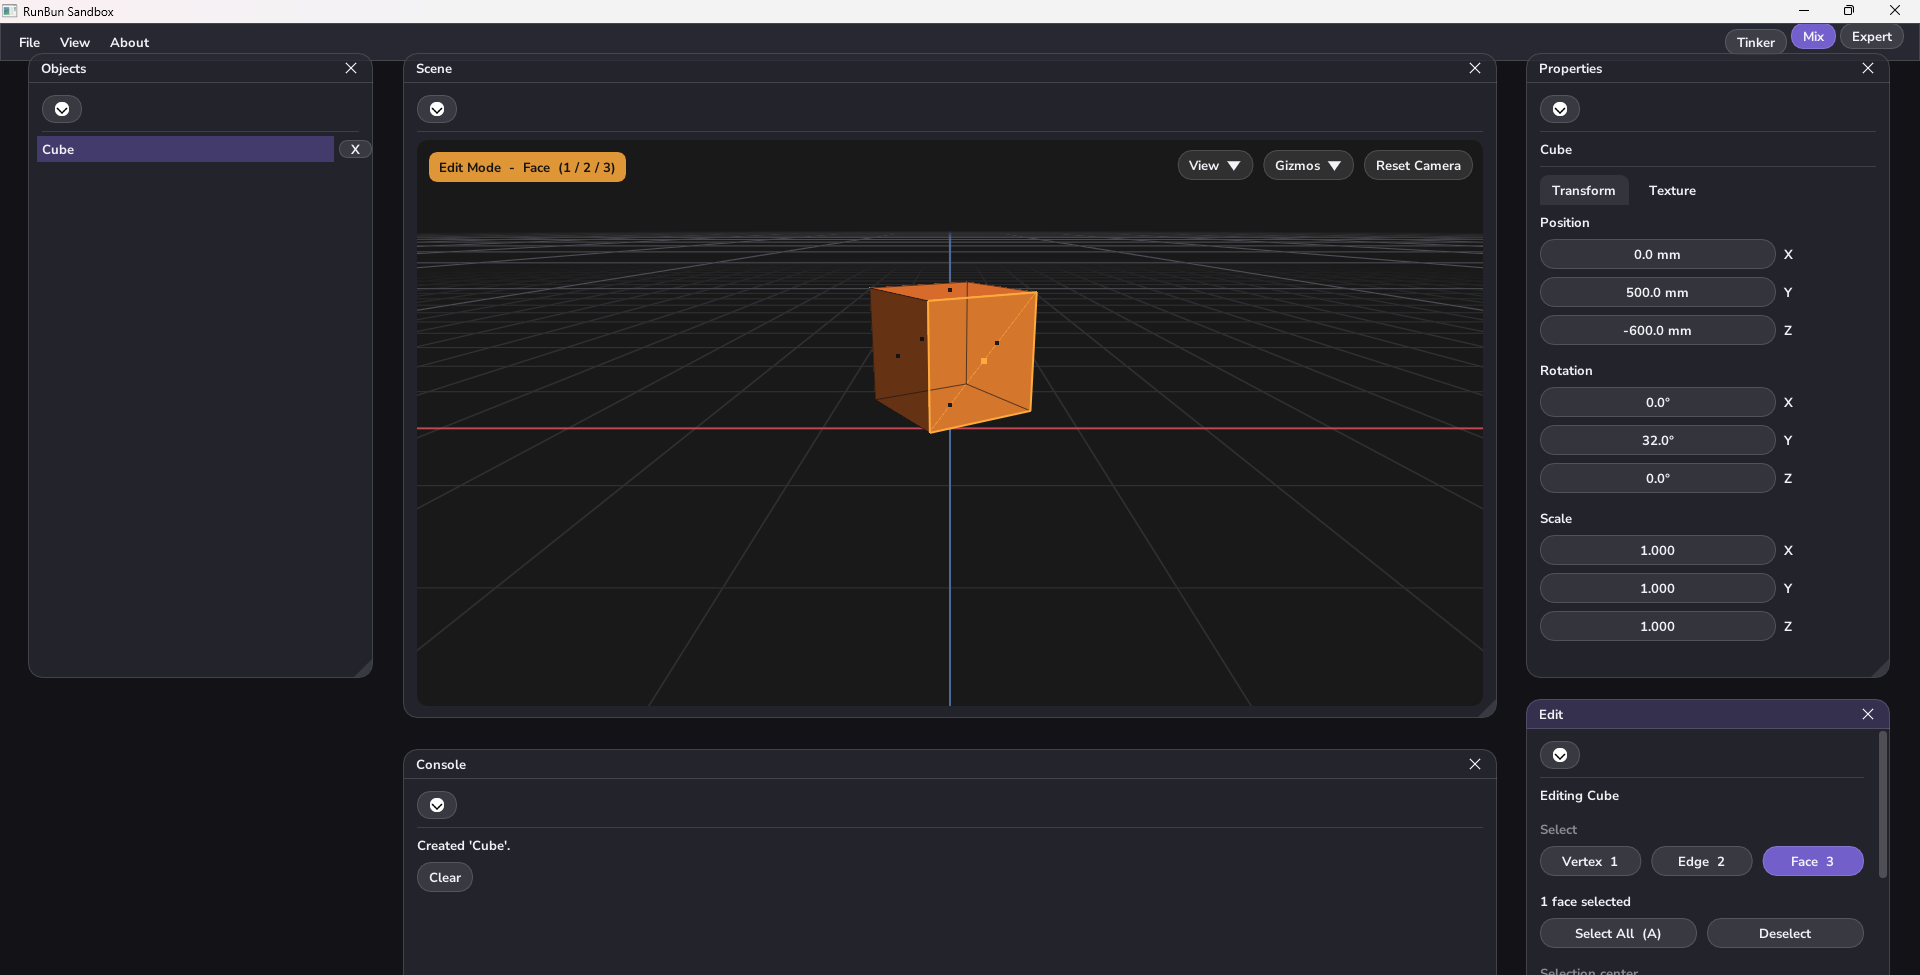
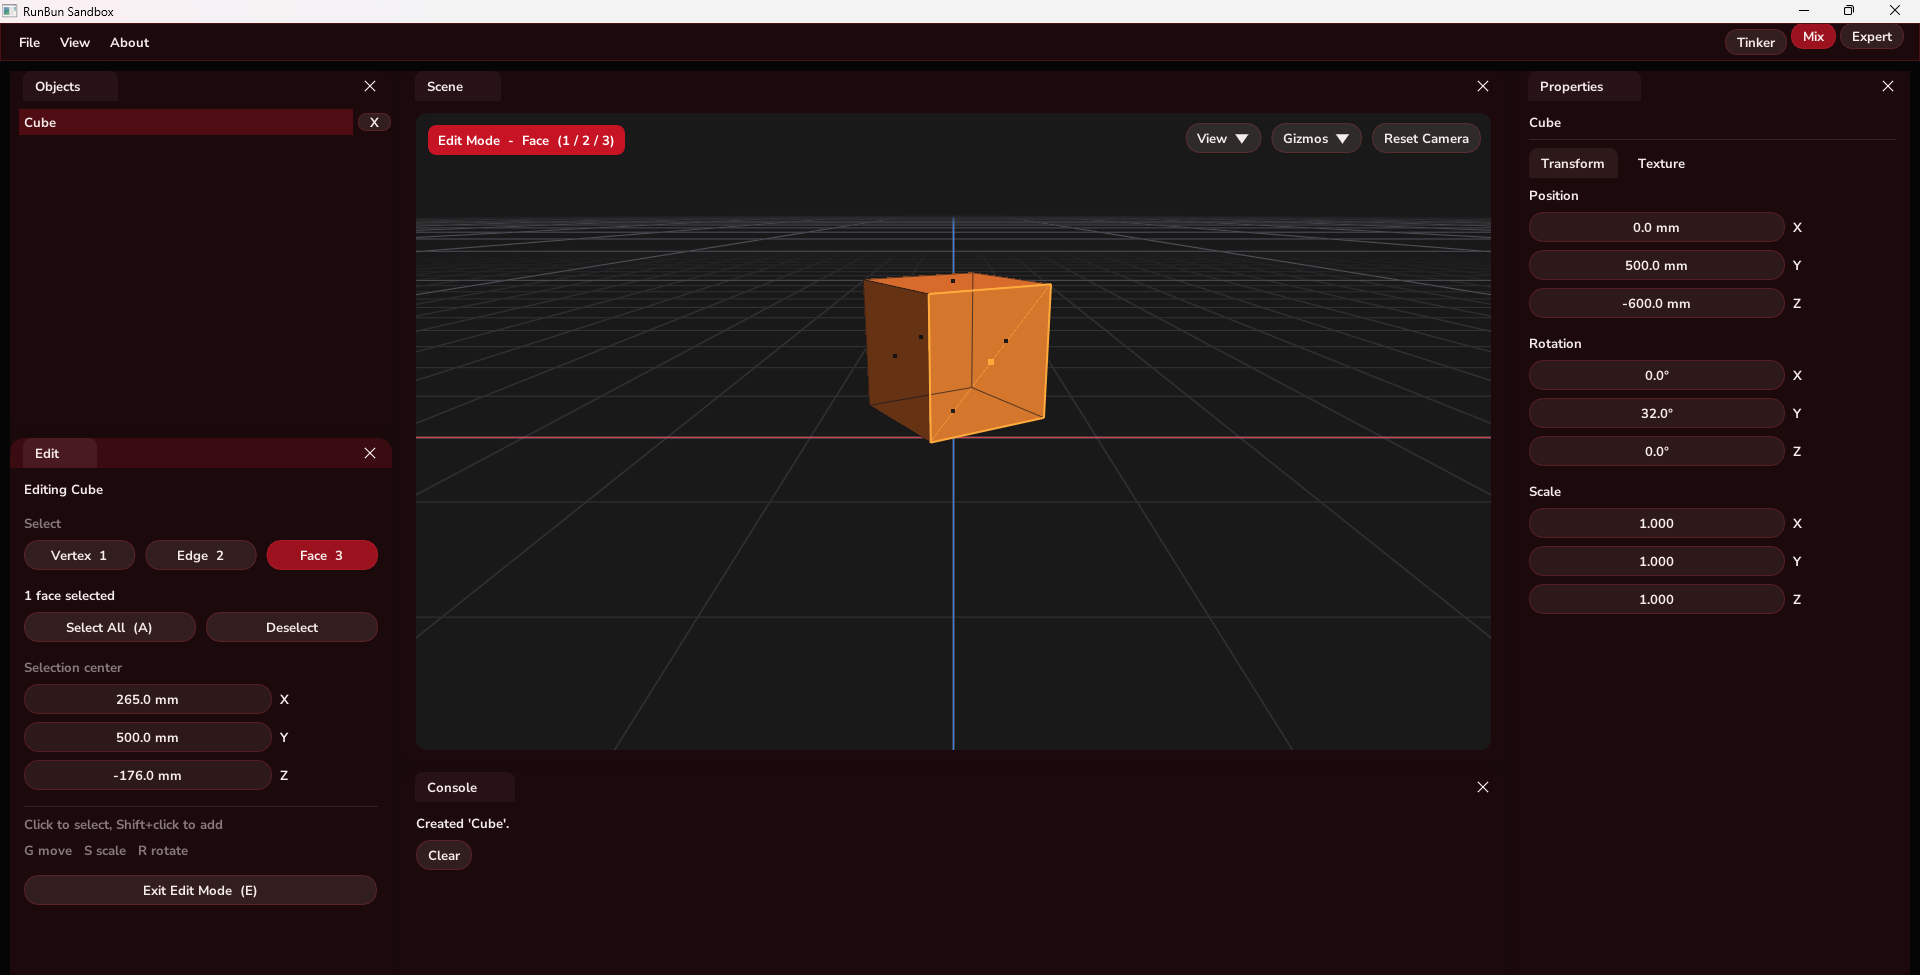
Add Maroon theme, tidy docked layout, and update README screenshot
- New Maroon theme preset (black and maroon with a red accent)
- Docked layout puts the Edit panel under Objects so every panel fits
- Edit Mode badge uses the theme accent color
- README: new current build shot in the Maroon theme, remove the 11/06 shots

diff --git a/src/ui/DockLayout.cpp b/src/ui/DockLayout.cpp
@@ -11,11 +11,11 @@ struct FloatingRect {
 };
 
 static const FloatingRect floatingRects[] = {
-    { "Objects",    0.015f, 0.03f, 0.180f, 0.62f },
+    { "Objects",    0.015f, 0.03f, 0.180f, 0.30f },
     { "Scene",      0.210f, 0.03f, 0.570f, 0.66f },
     { "Properties", 0.795f, 0.03f, 0.190f, 0.62f },
     { "Console",    0.210f, 0.72f, 0.570f, 0.25f },
-    { "Edit",       0.795f, 0.67f, 0.190f, 0.30f },
+    { "Edit",       0.015f, 0.36f, 0.180f, 0.61f },
 };
 
 static void ClearDockSpace(ImGuiID dockId) {
@@ -36,9 +36,9 @@ static void BuildDockedLayout(ImGuiID dockId) {
 
     ImGui::DockBuilderDockWindow("Scene", center);
     ImGui::DockBuilderDockWindow("Objects", left);
-    ImGuiID rightBottom = ImGui::DockBuilderSplitNode(right, ImGuiDir_Down, 0.40f, nullptr, &right);
+    ImGuiID leftBottom = ImGui::DockBuilderSplitNode(left, ImGuiDir_Down, 0.62f, nullptr, &left);
     ImGui::DockBuilderDockWindow("Properties", right);
-    ImGui::DockBuilderDockWindow("Edit", rightBottom);
+    ImGui::DockBuilderDockWindow("Edit", leftBottom);
     ImGui::DockBuilderDockWindow("Console", bottom);
     ImGui::DockBuilderFinish(dockId);
 }

diff --git a/src/main.cpp b/src/main.cpp
@@ -125,8 +125,8 @@ int main() {
         }
         if (uiSettings.showEdit && uiSettings.workMode != WorkMode_Tinker) {
             ImGuiViewport* mainViewport = ImGui::GetMainViewport();
-            ImGui::SetNextWindowPos(ImVec2(mainViewport->WorkPos.x + mainViewport->WorkSize.x * 0.795f, mainViewport->WorkPos.y + mainViewport->WorkSize.y * 0.67f), ImGuiCond_FirstUseEver);
-            ImGui::SetNextWindowSize(ImVec2(mainViewport->WorkSize.x * 0.19f, mainViewport->WorkSize.y * 0.30f), ImGuiCond_FirstUseEver);
+            ImGui::SetNextWindowPos(ImVec2(mainViewport->WorkPos.x + mainViewport->WorkSize.x * 0.015f, mainViewport->WorkPos.y + mainViewport->WorkSize.y * 0.36f), ImGuiCond_FirstUseEver);
+            ImGui::SetNextWindowSize(ImVec2(mainViewport->WorkSize.x * 0.18f, mainViewport->WorkSize.y * 0.61f), ImGuiCond_FirstUseEver);
             PreparePanel("Edit");
             DrawEditWindow(sceneRenderer, &uiSettings.showEdit);
         }

diff --git a/src/ui/SceneGizmo.cpp b/src/ui/SceneGizmo.cpp
@@ -372,8 +372,8 @@ void DrawSceneGizmo(SceneRenderer& sceneRenderer, UISettings& settings, ImVec2 v
         snprintf(label, sizeof(label), "Edit Mode  -  %s  (1 / 2 / 3)", GetEditSelectModeName(GetEditSelectMode()));
         ImVec2 labelSize = ImGui::CalcTextSize(label);
         ImVec2 labelMin = ImVec2(viewMin.x + 12.0f, viewMin.y + 12.0f);
-        drawList->AddRectFilled(labelMin, ImVec2(labelMin.x + labelSize.x + 20.0f, labelMin.y + labelSize.y + 12.0f), IM_COL32(255, 170, 60, 220), 8.0f);
-        drawList->AddText(ImVec2(labelMin.x + 10.0f, labelMin.y + 6.0f), IM_COL32(25, 20, 15, 255), label);
+        drawList->AddRectFilled(labelMin, ImVec2(labelMin.x + labelSize.x + 20.0f, labelMin.y + labelSize.y + 12.0f), ImGui::GetColorU32(ImGuiCol_SliderGrab), 8.0f);
+        drawList->AddText(ImVec2(labelMin.x + 10.0f, labelMin.y + 6.0f), IM_COL32(255, 255, 255, 255), label);
     }
 
     if (modal.mode != Transform_None && hasSelection) {

diff --git a/src/ui/GlassTheme.cpp b/src/ui/GlassTheme.cpp
@@ -34,6 +34,11 @@ static const ThemePreset themes[] = {
       ImVec4(0.98f, 0.94f, 0.95f, 1.0f), ImVec4(1.0f, 0.85f, 0.90f, 1.0f),
       ImVec4(1.0f, 0.60f, 0.70f, 0.18f), ImVec4(0.18f, 0.04f, 0.08f, 0.97f),
       ImVec4(0.80f, 0.15f, 0.35f, 1.0f), 0.0f },
+    { "Maroon",
+      ImVec4(0.025f, 0.018f, 0.020f, 1.0f), ImVec4(0.105f, 0.035f, 0.045f, 1.0f),
+      ImVec4(0.97f, 0.93f, 0.93f, 1.0f), ImVec4(1.0f, 0.80f, 0.80f, 1.0f),
+      ImVec4(0.90f, 0.20f, 0.25f, 0.22f), ImVec4(0.08f, 0.025f, 0.032f, 0.98f),
+      ImVec4(0.78f, 0.08f, 0.14f, 1.0f), 0.0f },
 };
 
 static const int themeCount = sizeof(themes) / sizeof(themes[0]);

diff --git a/README.md b/README.md
@@ -60,15 +60,6 @@ build.bat       Windows build script
 3. Run `build.bat`. The app is built to `bin\RunBunSandbox.exe` along with its assets and DLLs.
 
 ## Current Build (11/07/26)
-Mix mode with a cube in Edit Mode and Face select.
+Mix mode with a cube in Edit Mode and Face select, using the Maroon theme.
 
 <img width="1920" height="975" alt="RunBun Sandbox in Mix mode editing a cube face" src="screenshots/current-edit-mode.png" />
-
-## Previous Build (11/06/26)
-Three grass blocks imported and textured, with the selected one's transform shown in the Properties panel.
-
-<img width="1600" height="900" alt="RunBun Sandbox with three textured grass blocks in the scene" src="screenshots/current-main.png" />
-
-Texture tab for the selected object.
-
-<img width="1600" height="900" alt="RunBun Sandbox Texture tab" src="screenshots/current-texture.png" />
